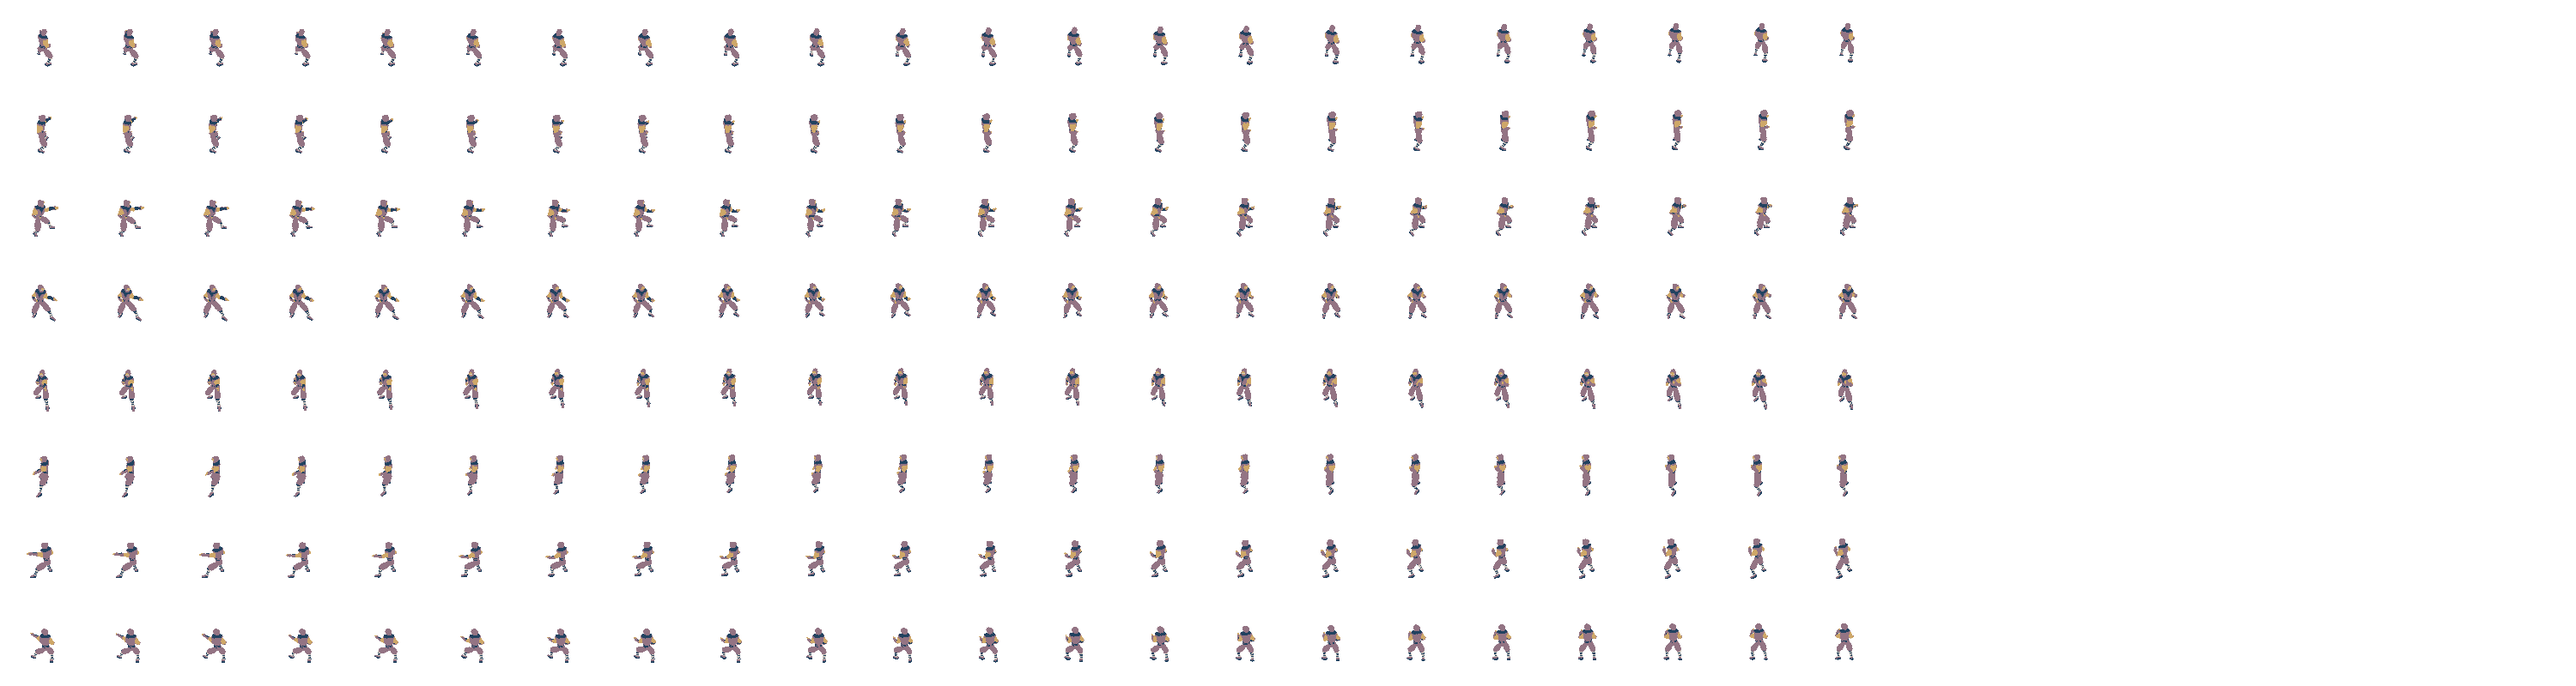
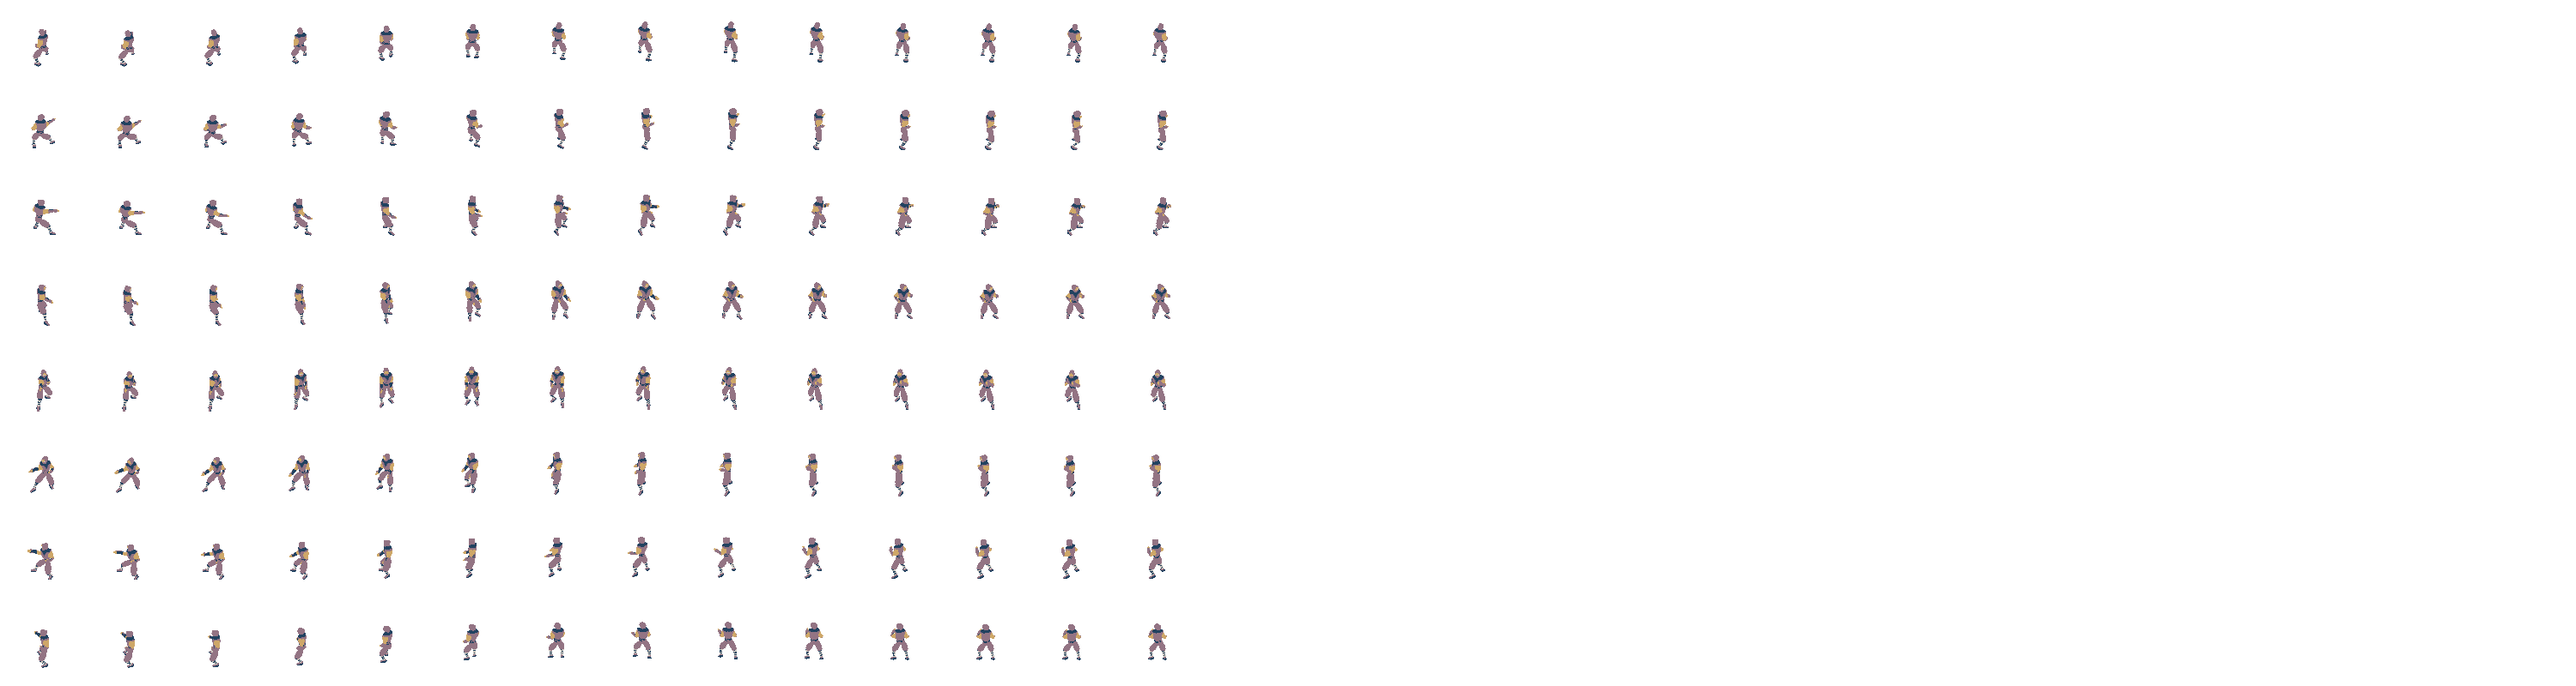
feat: Add axe kick animation, update recover animations

diff --git a/src/assets/mod.rs b/src/assets/mod.rs
@@ -29,6 +29,8 @@ pub struct GameAssets {
             "dude/dude_front_kick.png",
             "dude/dude_front_kick_recover.png",
             "dude/dude_stagger.png",
+            "dude/dude_axe_kick.png",
+            "dude/dude_axe_kick_recover.png",
         ),
         collection(typed)
     )]
@@ -112,6 +114,22 @@ pub struct GameAssets {
             "dude/dude.trickfilm.ron#stagger-o5",
             "dude/dude.trickfilm.ron#stagger-o6",
             "dude/dude.trickfilm.ron#stagger-o7",
+            "dude/dude.trickfilm.ron#axe_kick-o0",
+            "dude/dude.trickfilm.ron#axe_kick-o1",
+            "dude/dude.trickfilm.ron#axe_kick-o2",
+            "dude/dude.trickfilm.ron#axe_kick-o3",
+            "dude/dude.trickfilm.ron#axe_kick-o4",
+            "dude/dude.trickfilm.ron#axe_kick-o5",
+            "dude/dude.trickfilm.ron#axe_kick-o6",
+            "dude/dude.trickfilm.ron#axe_kick-o7",
+            "dude/dude.trickfilm.ron#axe_kick_recover-o0",
+            "dude/dude.trickfilm.ron#axe_kick_recover-o1",
+            "dude/dude.trickfilm.ron#axe_kick_recover-o2",
+            "dude/dude.trickfilm.ron#axe_kick_recover-o3",
+            "dude/dude.trickfilm.ron#axe_kick_recover-o4",
+            "dude/dude.trickfilm.ron#axe_kick_recover-o5",
+            "dude/dude.trickfilm.ron#axe_kick_recover-o6",
+            "dude/dude.trickfilm.ron#axe_kick_recover-o7",
         ),
         collection(typed)
     )]

diff --git a/src/state/mod.rs b/src/state/mod.rs
@@ -184,7 +184,7 @@ pub fn dude_state_hitbox_frames(state: DudeState, attack: Attack) -> (usize, usi
             Attack::Light1 => (3, 9),
             Attack::Light2 => (4, 10),
             Attack::Light3 => (2, 5),
-            Attack::Heavy1 => (1, 2),
+            Attack::Heavy1 => (5, 6),
             Attack::Heavy2 => (1, 2),
             Attack::Heavy3 => (1, 2),
         },
